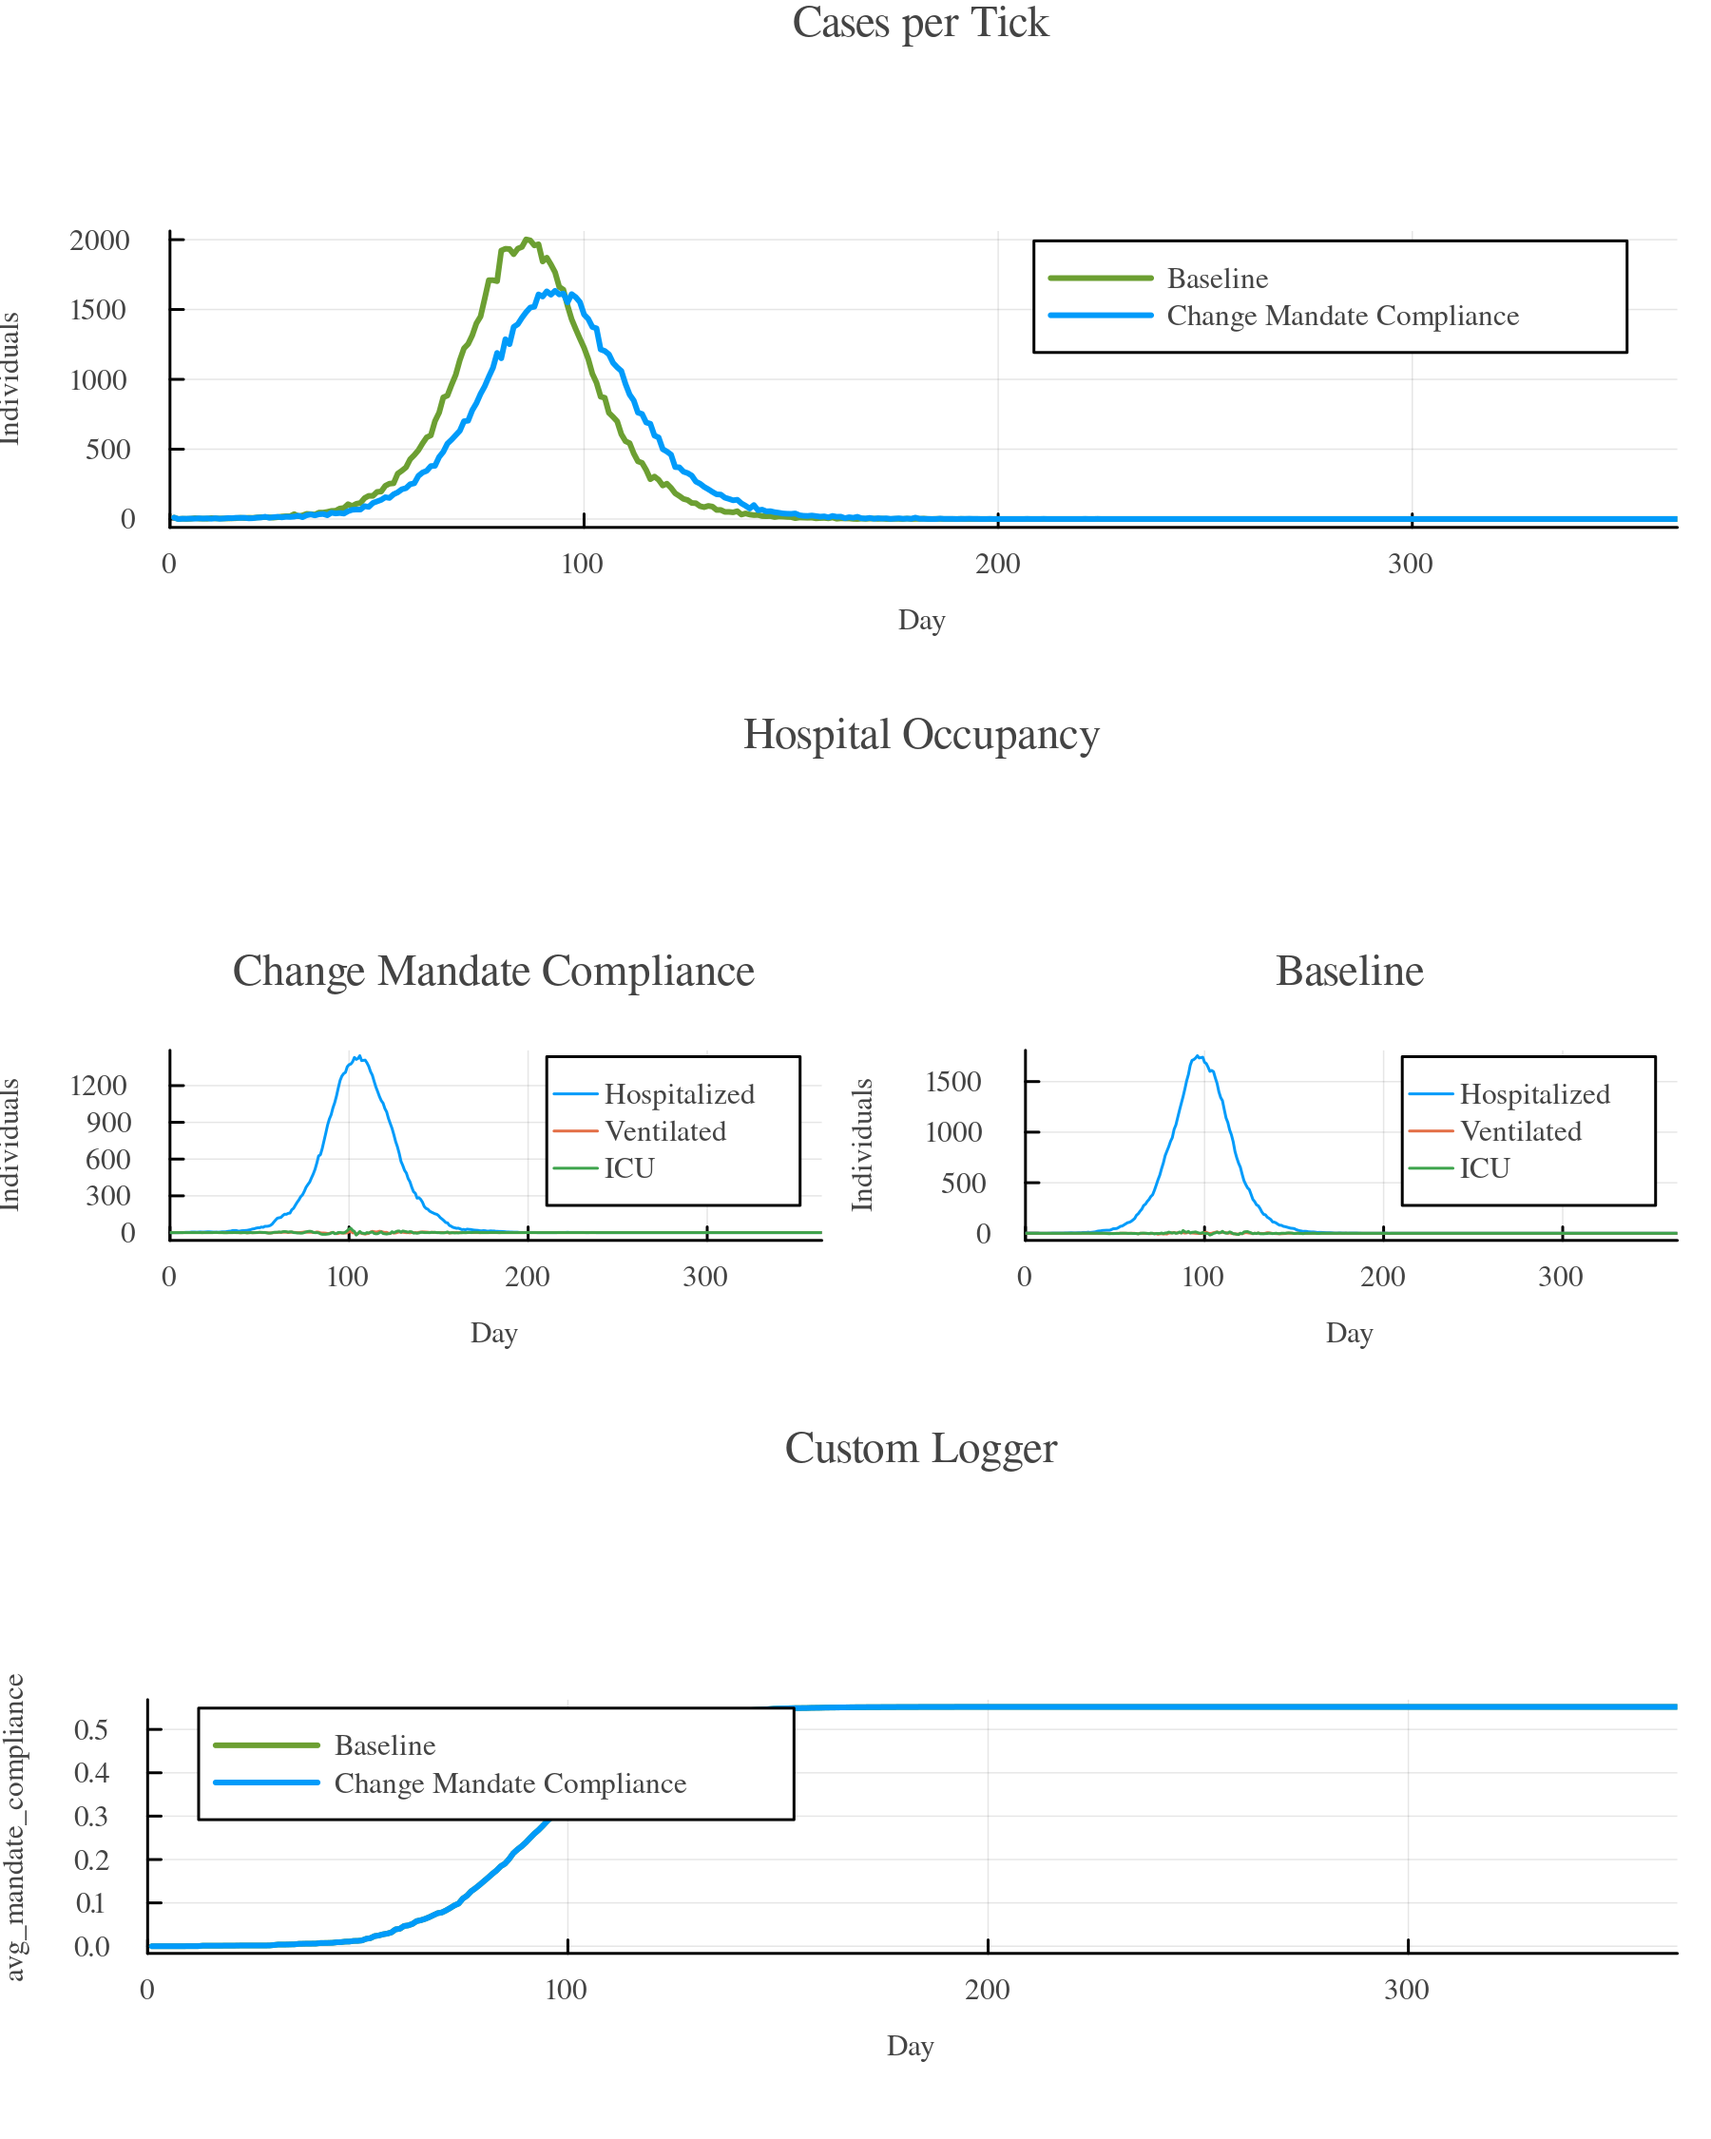
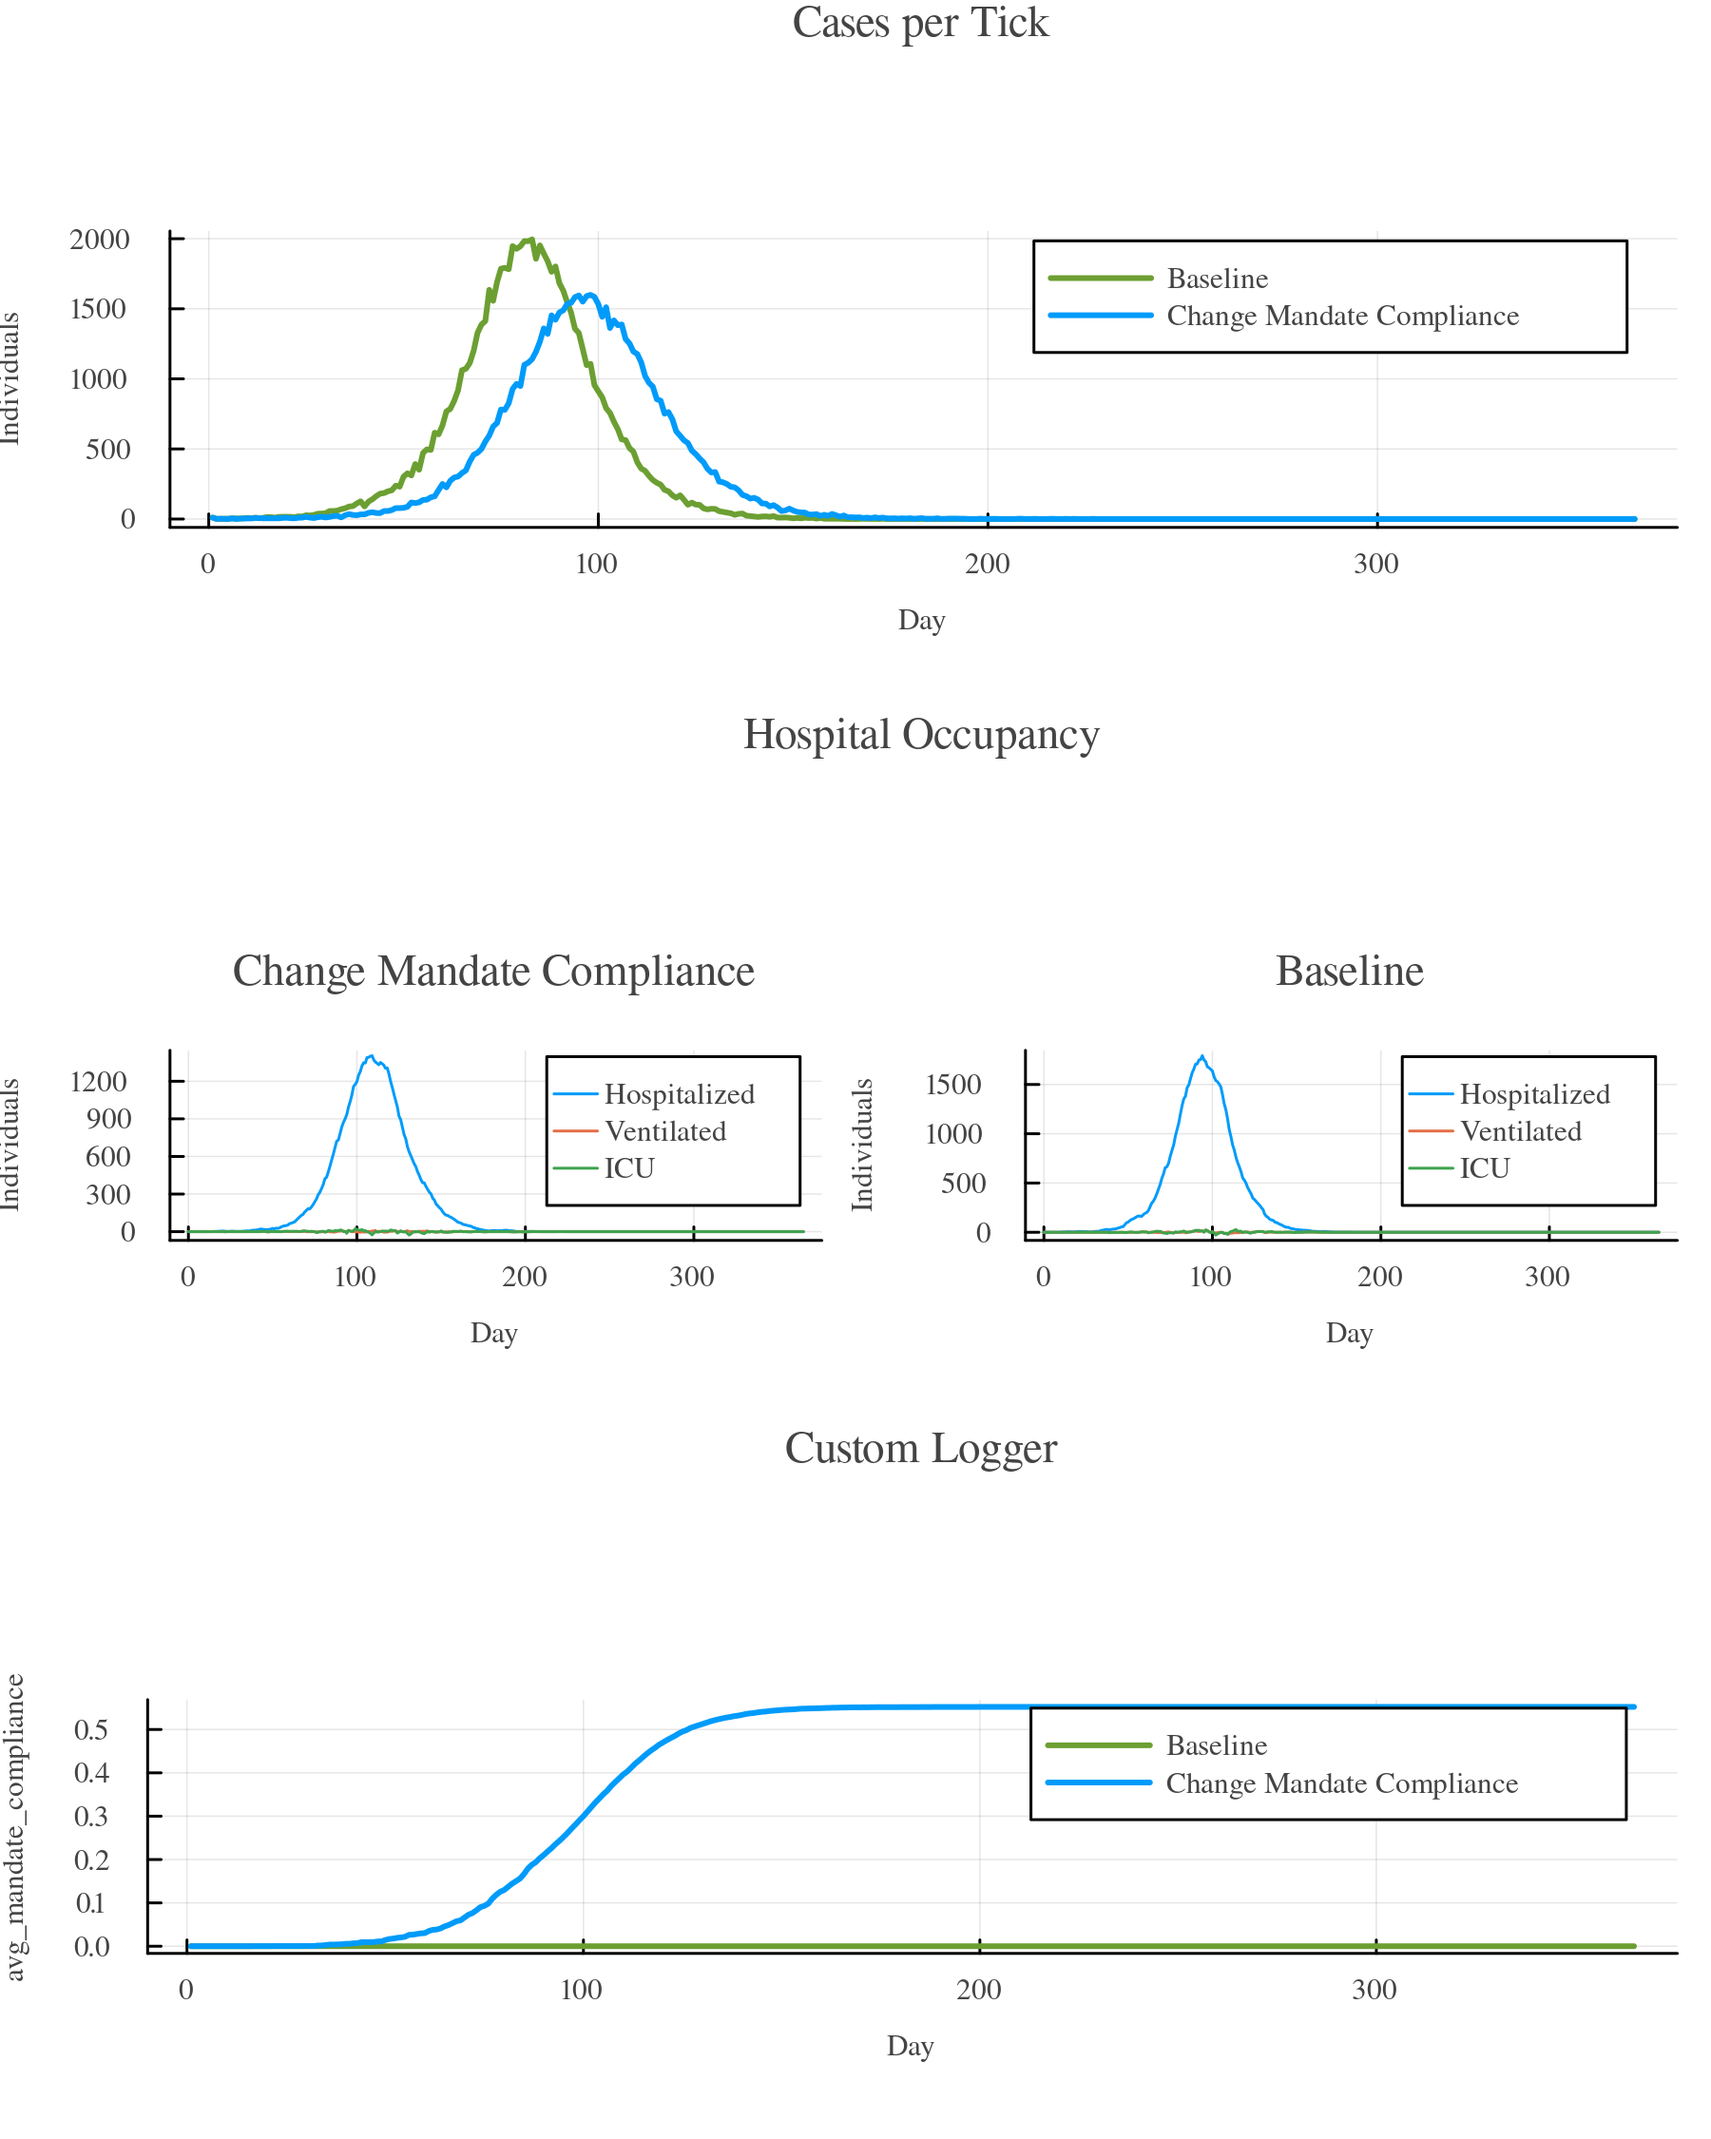
interventions tutorial and extend find_setting_measure for container settings
- decaying mandate adherence tutorial
- find setting measure for schoolyear, schoolcomplex, school, workplacesite, workplace and department
- tests for new getsetting function

diff --git a/docs/src/tut_npi.md b/docs/src/tut_npi.md
@@ -1301,8 +1301,9 @@ function avg_compliance(sim)
 end
 
 cl = CustomLogger(avg_mandate_compliance = avg_compliance)
+cl2 = CustomLogger(avg_mandate_compliance = avg_compliance)
 customlogger!(scenario, cl)
-customlogger!(baseline, cl)
+customlogger!(baseline, cl2)
 
 run!(scenario)
 run!(baseline)
@@ -1310,8 +1311,8 @@ run!(baseline)
 rd_s = ResultData(scenario)
 rd_b = ResultData(baseline)
 
-gemsplot([rd_s, rd_b], type = (:TickCases, :HospitalOccupancy, :CustomLoggerPlot),
- xlims = (0, 364))
+gemsplot([rd_s, rd_b], type = (:TickCases, :HospitalOccupancy, :CustomLoggerPlot), 
+ legend = :topright)
 ```
 
 **Plot**
@@ -1324,10 +1325,85 @@ gemsplot([rd_s, rd_b], type = (:TickCases, :HospitalOccupancy, :CustomLoggerPlot
 
 The results show how compliance evolves over time and how this shift in behavior influences overall case numbers and hospital occupancy. As more individuals experience the effects of the disease within their social circles, compliance rises—ultimately helping to control the outbreak.
 
+## Decaying Mandate Adherence
 
-## Varying Mandate Adherence
+This scenario explores how decreasing adherence to public health mandates can affect the course of an epidemic. Specifically, we model a situation where individuals become progressively less likely to follow intervention rules over time.
+Each agent in the simulation has a `mandate_compliance` attribute, which defaults to 0. This value can decrease down to -1, representing complete non-compliance. In this scenario, every individual's compliance decays by 2% of its current value each day via a `stepmod` function, simulating a slow behavioral shift away from following public health rules.
+To evaluate the impact of this decay, we introduce a 14-day self-isolation measure for symptomatic individuals and compare two simulations: one where compliance decays over time, and a baseline where all individuals fully comply throughout the simulation. This allows us to observe how weakening adherence undermines the effectiveness of the same intervention.
 
-Tutorial coming soon ...
+**Scenario Summary**
+
+```@raw html
+<p align="center">
+    <img src="../assets/tutorials/tut_interventions_trism_decaying-compliance.png" width="60%"/>
+</p>
+``` 
+
+- Each individual's mandate compliance decreases by 2% daily via a `stepmod`, simulating behavioral fatigue.  
+- A 14-day self-isolation measure is applied to individuals who develop symptoms.  
+- The scenario is compared to a baseline in which all individuals fully comply with isolation rules throughout the epidemic.
+
+```julia
+using GEMS
+
+# define a function that reduces the mandate_compliance of every individual
+function decaying_mandate_compliance!(sim::Simulation)
+    for ind in individuals(sim)
+        current  = mandate_compliance(ind)
+        updated  = current - 0.02 * (1 + current)
+        mandate_compliance!(ind, updated)
+    end
+end
+
+baseline = Simulation(label = "Self Isolation")
+scenario = Simulation(label = "Decaying Mandate Adherence",
+ stepmod = decaying_mandate_compliance!)
+
+# setup the baseline simulation with a self isolation strategy
+self_isolation = IStrategy("Self Isolation", baseline)
+add_measure!(self_isolation, SelfIsolation(14))
+trigger = SymptomTrigger(self_isolation)
+add_symptom_trigger!(baseline, trigger)
+
+# same scenario but with decaying compliance every day
+self_isolation_scenario = IStrategy("Self Isolation with Decaying Compliance",
+ scenario)
+add_measure!(self_isolation_scenario, SelfIsolation(14), 
+ condition = i -> rand() < mandate_compliance(i))
+trigger = SymptomTrigger(self_isolation_scenario)
+add_symptom_trigger!(scenario, trigger)
+
+# custom logger
+function avg_compliance(sim)
+    inds = individuals(sim)
+    return sum(mandate_compliance.(inds)) / length(inds)
+end
+
+cl = CustomLogger(avg_mandate_compliance = avg_compliance)
+cl2 = CustomLogger(avg_mandate_compliance = avg_compliance)
+customlogger!(scenario, cl)
+customlogger!(baseline, cl2)
+
+run!(baseline)
+run!(scenario)
+
+rd_b = ResultData(baseline)
+rd_s = ResultData(scenario)
+
+gemsplot([rd_b, rd_s], type = (:TickCases, :CumulativeIsolations, :CustomLoggerPlot), 
+ legend = :topright)
+
+```
+
+**Plot**
+
+```@raw html
+<p align="center">
+    <img src="../assets/tutorials/tut_interventions_decaying-compliance.png" width="80%"/>
+</p>
+``` 
+
+The results show that decaying mandate adherence significantly reduces the effectiveness of self-isolation. In the baseline simulation, where all individuals fully comply, the epidemic curve is flatter and isolation levels remain high throughout the peak period. In contrast, the scenario with decaying compliance experiences a sharper, higher peak in daily cases and fewer cumulative isolations. The custom logger confirms that average compliance steadily declines to -1, demonstrating that behavioral fatigue can undermine even well-designed interventions.
 
 ## Adapting Behavior
 

diff --git a/docs/src/TriSM.md b/docs/src/TriSM.md
@@ -117,6 +117,7 @@ gemsplot(rd, type = (:TickCases, :CumulativeDiseaseProgressions, :CumulativeIsol
     <img src="../assets/trism-example1-plot.png" width="80%"/>
 </p>
 ``` 
+For full instructions on setting up an isolation scenario, see the [Self-Isolation With Symptoms](tut_npi.md#Self-Isolation-With-Symptoms) section in the tutorial.
 
 ---
 
@@ -128,10 +129,12 @@ gemsplot(rd, type = (:TickCases, :CumulativeDiseaseProgressions, :CumulativeIsol
 </p>
 ```
 
+In this scenario, the entire school is closed starting one day after a symptomatic case is detected among its students. It reopens after a fixed closure period of 15 days.
+
 ```julia
 using GEMS
 
-sim = Simulation(population = "SL")
+sim = Simulation(population = "SL", transmission_rate=0.05)
 
 # Strategy for closing and reopening schools
 school_close_and_reopen = SStrategy("School Close and Reopen", sim)
@@ -139,8 +142,8 @@ add_measure!(school_close_and_reopen, CloseSetting(), offset = 1)
 add_measure!(school_close_and_reopen, OpenSetting(), offset = 15)
 
 find_school = IStrategy("Find School", sim)
-add_measure!(find_school, FindSetting(School, school_close_and_reopen), condition = is_student)
-# TODO: fix condition
+add_measure!(find_school, FindSetting(SchoolYear, school_close_and_reopen),
+ condition = is_student)
 
 trigger = SymptomTrigger(find_school)
 add_symptom_trigger!(sim, trigger)
@@ -150,8 +153,16 @@ run!(sim)
 rd = ResultData(sim)
 
 # Plot the Results
-gemsplot(rd, type = (:TickCases, :TickCasesBySetting, :TickTests))
+gemsplot(rd, type = (:TickCases, :TickCasesBySetting))
 ```
+
+```@raw html
+<p align="center">
+    <img src="../assets/trism-example2-plot.png" width="80%"/>
+</p>
+``` 
+
+For full instructions on setting up an setting closure scenario, see the [Setting Closure](tut_npi.md#Setting-Closure) section in the tutorial.
 
 ---
 
@@ -178,7 +189,8 @@ add_measure!(school_close_and_reopen, OpenSetting(), offset = 10)
 # Strategy with test-all measure for schools
 school_test_all = SStrategy("Test all in School", sim)
 pcr_test = TestType("PCR Test", pathogen(sim), sim)
-add_measure!(school_test_all, TestAll("PCR Test", pcr_test, positive_followup = school_close_and_reopen))
+add_measure!(school_test_all, TestAll("PCR Test", pcr_test,
+ positive_followup = school_close_and_reopen))
 
 # Strategy to check if schools are open
 school_is_open = SStrategy("School is Open?", sim)
@@ -201,3 +213,5 @@ gemsplot(rd, type = (:TickCases, :TickCasesBySetting, :TickTests))
     <img src="../assets/trism-example3-plot.png" width="80%"/>
 </p>
 ``` 
+
+For full instructions on setting up an setting closure scenario, see the [Setting Closure](tut_npi.md#Setting-Closure) section in the tutorial.
